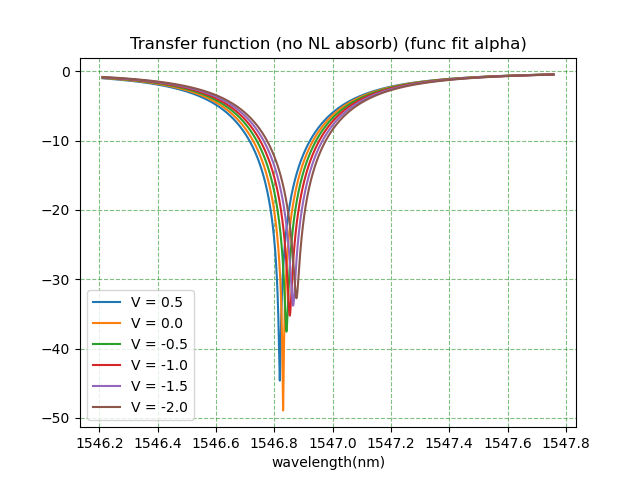
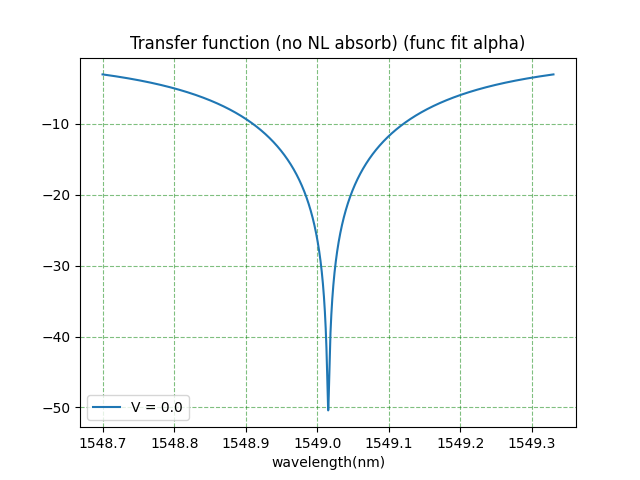
20250701

diff --git a/eye_test.py b/eye_test.py
@@ -13,19 +13,20 @@ from Heater import Heater
 # Refer：Ring modulator in IMEC PDK
 # //////////////////////////////////////////////////////////////////////////////////////////////////////////////
 # //////////////////////////////////////////////////////////////////////////////////////////////////////////////
-# mode = "scan_frequency"
-mode = "voltage_drive"
+mode = "scan_frequency"
+# mode = "voltage_drive"
 delta_f = 8 # GHz
-wl_in = 1.5593-0.0008/100*delta_f
+wl_in = 1.559453431986187
+# wl_in = 1.5593-0.0008/100*delta_f
 Pin = 1.0 #mW
-FSR = 0.019431 # um
+FSR = 0.0194 # um
 radius = 5 #um
 cavity_length = 2*np.pi*radius 
 La_Lc_ratio = 1
 mode_area = 0.22*0.5
 lambda_res =  1.559453431986187
 Q = 2125
-me = 39.3 # pm/V
+me = 38 # pm/V
 
 # //////////////////////////////////////////////////////////////////////////////////////////////////////////////
 # //////////////////////////////////////////////////////////////////////////////////////////////////////////////
@@ -36,7 +37,7 @@ ng = lambda_res**2/(FSR*cavity_length)
 # //////////////////////////////////////////////////////////////////////////////////////////////////////////////
 # Calculate total loss (intrinsic loss + coupling loss)
 w_res = 2*np.pi*c/(lambda_res) # THz
-print("G_energy + alpha_energy = ",( w_res*ng/(c*1e-4))/Q," 1/cm")
+print("G_energy + alpha_energy = ",( w_res*ng/(c*1e-4))/Q," 1/cm") 
 
 # //////////////////////////////////////////////////////////////////////////////////////////////////////////////
 # Define the energy absorption coefficient (varing with voltage)
@@ -47,22 +48,25 @@ alpha_energy0 =  G_plus_alpha*(1-ratio) #1/cm
 G_energy = G_plus_alpha*ratio #1/cm
 
 
-Amp_RoundTripLoss_data = np.array([0.95124,0.95248,0.95273,0.95292,0.95305])
-a_fit = alpha_fit(RoundTripLoss=Amp_RoundTripLoss_data,L = cavity_length,input2 = "amp",fit_mode="func")
+# Amp_RoundTripLoss_data = np.array([0.95124,0.95248,0.95273,0.95292,0.95305])
+Amp_RoundTripLoss_data = np.array([0.95004,0.95212,0.95246,0.95245,0.95266])
+a_fit = alpha_fit(RoundTripLoss=Amp_RoundTripLoss_data,La=cavity_length,L = cavity_length,input2 = "amp",fit_mode="func")
 
 # //////////////////////////////////////////////////////////////////////////////////////////////////////////////
 # //////////////////////////////////////////////////////////////////////////////////////////////////////////////
 # Define the coupling coefficient
-gamma = 0.95105
+gamma = 0.95012
+# gamma = 0.95105
 
 # //////////////////////////////////////////////////////////////////////////////////////////////////////////////
 # //////////////////////////////////////////////////////////////////////////////////////////////////////////////
 # Define the index (varing with voltage)
 D_bar = -2*np.pi*c/lambda_res**2
-# print("delta neff/delta V = ",me*1e-6*D_bar*( -ng/(w_res) )*(1/La_Lc_ratio))
-neff0 = 2.5111
+print("delta neff/delta V = ",me*1e-6*D_bar*( -ng/(w_res) )*(1/La_Lc_ratio))
+# neff0 = 2.5111
 # dneff_dV = me*1e-6*D_bar*( -ng/(w_res) )*(1/La_Lc_ratio)
-neff_calculated = [2.51105,neff0, 2.51113, 2.51116, 2.51118, 2.5112]
+# neff_calculated = [2.51105,neff0, 2.51113, 2.51116, 2.51118, 2.5112]
+neff_calculated = [2.51461,2.51464, 2.51467, 2.5147, 2.51473, 2.51475]
 # neff_calculated = [neff0+dneff_dV*(-0.5),neff0, neff0+dneff_dV*0.5, neff0+dneff_dV*1, neff0+dneff_dV*1.5, neff0+dneff_dV*2]
 
 n_fit = neff_fit(neff_data=neff_calculated)
@@ -127,8 +131,8 @@ H = Heater(300,0,0.5*150/0.6)
 # The range is set based on the resonant wavelength and the heater power
 # The values can be adjusted based on the specific device characteristics
 
-wl_min =  ring_mod.lambda0+ring_mod.HE*H.P*1e-6 - ring_mod.lambda0/ring_mod.Q
-wl_max =  ring_mod.lambda0+ring_mod.HE*H.P*1e-6 + ring_mod.lambda0/ring_mod.Q*1.5
+wl_min =  ring_mod.lambda0+ring_mod.HE*H.P*1e-6 - ring_mod.lambda0/ring_mod.Q/2
+wl_max =  ring_mod.lambda0+ring_mod.HE*H.P*1e-6 + ring_mod.lambda0/ring_mod.Q/2
 
 # //////////////////////////////////////////////////////////////////////////////////////////////////////////////
 # //////////////////////////////////////////////////////////////////////////////////////////////////////////////
@@ -155,7 +159,9 @@ ploting(V,v.Cj_V(V,v.a,v.b),x_label="voltage (V)",title="junction capacitance (F
 V = np.linspace(-2,0,1000)
 ploting(V,ring_mod.alpha(V),x_label="voltage (V)",title="Energy absorption coefficient (1/cm)",filename="alpha_V")
 ploting(V,ring_mod.neff(V),x_label="voltage (V)",title="neff vs Voltage",filename="neff_V")
-ploting(V,1e6*c*1e-12/ring_mod.f_res_bar/ring_mod.ng*( ring_mod.neff(V) - ring_mod.neff(0))*(ring_mod.L_active/ring_mod.L),\
+plt.scatter(np.array([0.5,0,-0.5,-1,-1.5,-2]), neff_calculated)
+plt.show()
+ploting(V,1e6*c*1e-12/sim.f_pround_bar/ring_mod.ng*( ring_mod.neff(V) - ring_mod.neff(0))*(ring_mod.L_active[0]/ring_mod.L),\
             x_label="voltage (V)",title="resonant wavelength vs Voltage (pm/V)",filename="lambda_V")
 
 os.chdir("./eye_diagram_test/")
@@ -163,13 +169,11 @@ t = time(mode = sim.mode)
 
 if sim.mode == "scan_frequency":
     # vbias = np.array([v_bias+vpp/2,v_bias,v_bias-vpp/2])
-    vbias = np.array([0,-0.5,-1,-1.5,-2])
-    # vbias = np.arange(-0,-0.5,-0.5)
+    # vbias = np.array([0,-0.5,-1,-1.5,-2])
+    vbias = np.arange(-0,-0.5,-0.5)
     ring_mod.scan_frequency(wl_min ,wl_max,t)
     t.main(ring_mod,t_max=10000,resolution=1,buffer=50,driver=v)
-    wl_scan =  c/ring_mod.w_res(t.t_total)*t0
-    
-    T_record = np.zeros( (int(len(t.t_total)-t.buffer*t0/t.dt-1),len(vbias)))
+
     plt.figure()
     for vb in vbias:
         v.v_bias = vb
@@ -190,7 +194,7 @@ if sim.mode == "scan_frequency":
         plt.title('Transfer function (no NL absorb) (func fit alpha)')
         plt.savefig("Transmission_vs_voltage (no NL) (func fit alpha)")
     plt.show()
-    ploting(t.t_total,abs(sim.b)**2,x_label="time (ps)",title="Energy in Ring (mJ)")
+    # ploting(t.t_total,abs(sim.b)**2,x_label="time (ps)",title="Energy in Ring (mJ)")
 
     sim.save_data(ring_mod,t,v,H)
     

diff --git a/couple_region_FDTD.py b/couple_region_FDTD.py
@@ -1,8 +1,4 @@
-from utility import ploting
 import numpy as np
-from scipy.interpolate import interp1d
-import scipy.io
-import subprocess
 import importlib
 import argparse
 
@@ -12,22 +8,36 @@ fdtd = lumapi.FDTD(hide=True)
 
 def main(radius,
          gap,
-         z_span=0.22,
-         wg_width=0.45,
-         from_wg=1,
-         from_ring=0):
-    run = False
+         wg_width=0.5,
+         bus_wg_width=0.45,
+         ):
     scale = 1e-6
     pad = 2
-    res = 5
+    res = 4
     Si = 'Si (Silicon) - Palik'
     SiO2 = 'SiO2 (Glass) - Palik'
+    SKT_height  = 0.0622
+    WG_height  = 0.2114
+
+    fdtd.setglobalsource("wavelength start",1.5e-6)
+    fdtd.setglobalsource("wavelength start",1.6e-6)
 
     fdtd_x_span = (2*radius+wg_width+2*pad)*scale
     fdtd_y_min = (-gap/2-wg_width-pad)*scale
-    fdtd_y_max = (gap/2+wg_width+radius+2*pad)*scale
+    fdtd_y_max = (gap/2+radius-1)*scale
     fdtd_z_span = (3)*scale
     simulation_time = 1000e-15
+
+    fdtd.addrect(name="slab")
+    fdtd.set("x",0)
+    fdtd.set("y",0)
+    fdtd.set("z",0)
+    fdtd.set("x span",fdtd_x_span+2*pad*scale)
+    fdtd.set("y max",(gap/2+wg_width+radius+pad)*scale)
+    fdtd.set("y min",(fdtd_y_min))
+    fdtd.set("z",(-WG_height/2+SKT_height/2)*scale)
+    fdtd.set("z span",SKT_height*scale)
+    fdtd.set('material',Si)
 
     fdtd.addring(name="new_ring")
     fdtd.set("x",0)
@@ -35,18 +45,18 @@ def main(radius,
     fdtd.set("inner radius",(radius - wg_width/2)*scale)
     fdtd.set("outer radius",(radius + wg_width/2)*scale)
     fdtd.set("z",0)
-    fdtd.set("z span",z_span*scale)
+    fdtd.set("z span",WG_height*scale)
     fdtd.set("theta start",180)
     fdtd.set("theta stop",360)
     fdtd.set('material',Si)
 
     fdtd.addrect(name="bus")
-    fdtd.set("x",0);
-    fdtd.set("y",(-gap/2-wg_width/2)*scale);
-    fdtd.set("z",0);
-    fdtd.set("x span",fdtd_x_span+2*pad*scale);
-    fdtd.set("y span",wg_width*scale);
-    fdtd.set("z span",z_span*scale);
+    fdtd.set("x",0) 
+    fdtd.set("y",(-gap/2-0.45/2)*scale) 
+    fdtd.set("z",0) 
+    fdtd.set("x span",fdtd_x_span+2*pad*scale) 
+    fdtd.set("y span",bus_wg_width*scale) 
+    fdtd.set("z span",WG_height*scale) 
     fdtd.set('material',Si)
 
     fdtd.addfdtd(simulation_time=simulation_time)
@@ -115,7 +125,7 @@ def main(radius,
     fdtd.set("mode selection","user select")
     fdtd.set("number of field profile samples",3)
     fdtd.updateportmodes(1) 
-    fdtd.set("x",(radius/2+wg_width/2)*scale)
+    fdtd.set("x",(radius+wg_width/2)*scale)
     fdtd.set("y",(-gap/2-wg_width/2)*scale)
     fdtd.set("z",0)
     fdtd.set("z span",(3)*scale)
@@ -123,18 +133,14 @@ def main(radius,
     fdtd.set("x span",(0)*scale)
     fdtd.select("FDTD::ports") 
     
-    if from_ring:
-        fdtd.set("source port","bottom_left")
-    if from_wg:
-        fdtd.set("source port","top_left")
-    fdtd.set("source mode","mode 1")
+    # if from_ring:
+    fdtd.set("source port","bottom_left")
+    # if from_wg:
+    #     fdtd.set("source port","top_left")
+    # fdtd.set("source mode","mode 1")
 
     fdtd.save("coupler_fsp")
 
-    if run:
-        print('complete build\nrunning...........\n')
-        process0 = subprocess.Popen(['/opt/lumerical/v212/mpich2/nemesis/bin/mpiexec --hostfile host_file /opt/lumerical/v212/bin/fdtd-engine-mpich2nem '+filename],shell=True)
-        process0.wait()
 
 if __name__=='__main__':
     parser = argparse.ArgumentParser()

diff --git a/ring_with_mzm.py b/ring_with_mzm.py
@@ -1,0 +1,3 @@
+import numpy as np
+from utility import *
+
